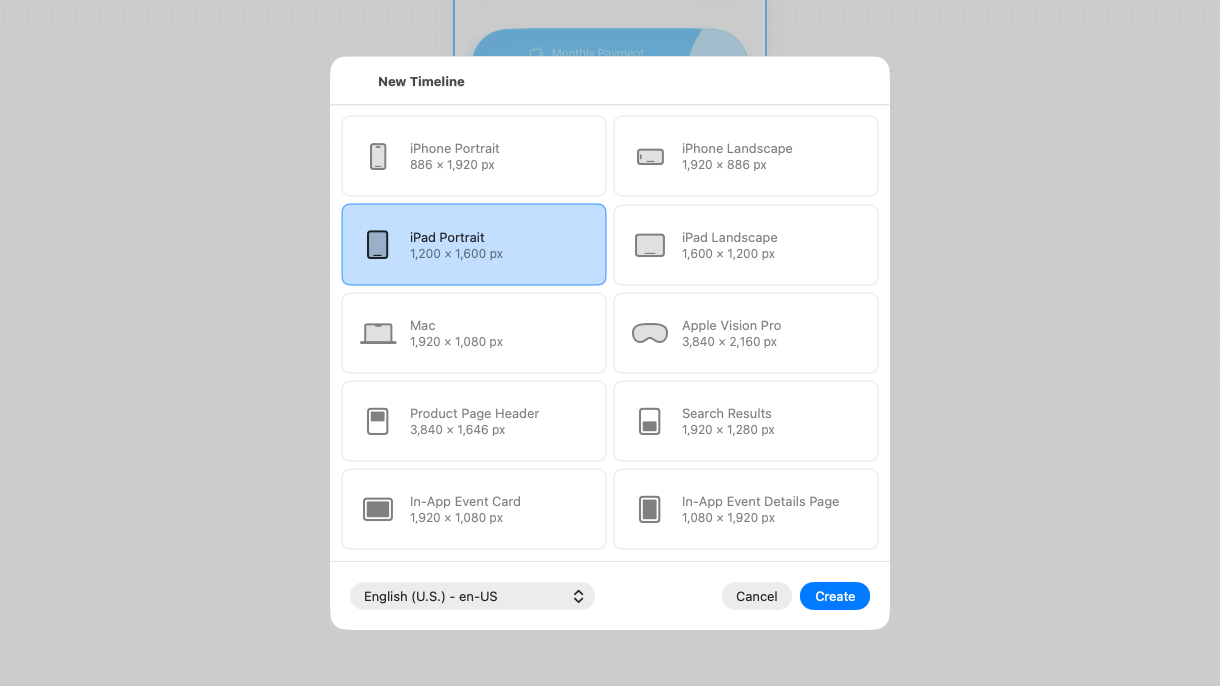
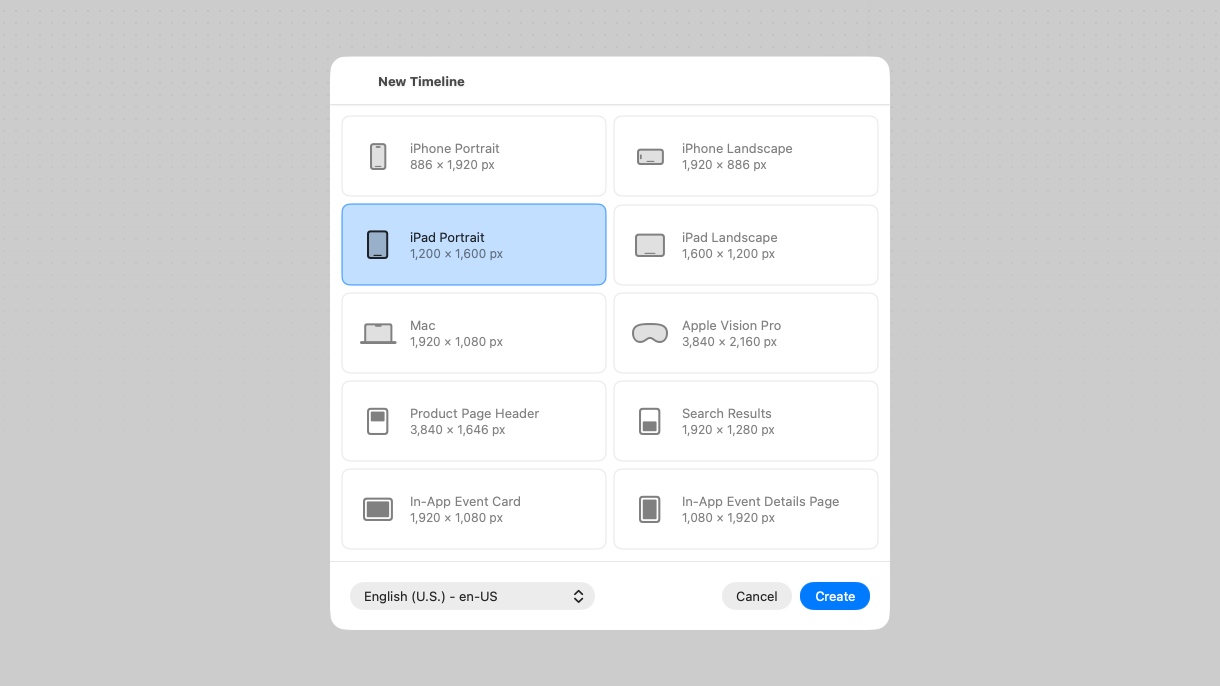
Updates

Changed region(s): [[0.3738, 0.0306, 0.623, 0.0918]]

diff --git a/app-preview-editor/index.html b/app-preview-editor/index.html
@@ -25,7 +25,7 @@
 
   <link rel="icon" href="AppIcon.png" type="image/png">
   <link rel="apple-touch-icon" href="AppIcon.png">
-  <link rel="stylesheet" href="styles.css?v=20261030-scene-desktop-1">
+  <link rel="stylesheet" href="styles.css?v=20261031-bento-images-1">
   <link rel="stylesheet" href="../tally-embed.css?v=20261029-1">
   <link rel="stylesheet" href="wind-files.css?v=20261029-varied-sizes-1">
   <link rel="stylesheet" href="../shared-download-cta.css?v=20261024-1">
@@ -196,6 +196,49 @@
             <source data-src="assets/product/scene-clip.mp4" type="video/mp4">
           </video>
         </div>
+      </div>
+    </section>
+
+    <section class="feature-bento" aria-labelledby="feature-bento-title">
+      <div class="feature-bento-heading reveal">
+        <h2 id="feature-bento-title">Make every detail yours.</h2>
+      </div>
+      <div class="feature-bento-grid">
+        <article class="feature-bento-card reveal">
+          <img class="feature-bento-icon" src="assets/icons/bento-01.svg" width="44" height="44" alt="" aria-hidden="true" loading="lazy" decoding="async">
+          <h3>Your screens. A bigger story.</h3>
+          <p>Bring recordings, screenshots, text, and sound together.</p>
+        </article>
+        <article class="feature-bento-card reveal">
+          <img class="feature-bento-icon" src="assets/icons/bento-02.svg" width="44" height="44" alt="" aria-hidden="true" loading="lazy" decoding="async">
+          <h3>Every moment. Just right.</h3>
+          <p>Fine-tune the timing, pace, and flow of your video.</p>
+        </article>
+        <article class="feature-bento-card feature-bento-wide reveal">
+          <img class="feature-bento-icon" src="assets/icons/bento-03.svg" width="44" height="44" alt="" aria-hidden="true" loading="lazy" decoding="async">
+          <h3>Make the important parts move.</h3>
+          <p>Draw attention with animated text, smooth entrances, and focused zooms.</p>
+        </article>
+        <article class="feature-bento-card feature-bento-wide reveal">
+          <img class="feature-bento-icon" src="assets/icons/bento-04.svg" width="44" height="44" alt="" aria-hidden="true" loading="lazy" decoding="async">
+          <h3>A little setup. A lot of scene.</h3>
+          <p>Add your screens to ready-made scenes and make them yours.</p>
+        </article>
+        <article class="feature-bento-card reveal">
+          <img class="feature-bento-icon" src="assets/icons/bento-05.svg" width="44" height="44" alt="" aria-hidden="true" loading="lazy" decoding="async">
+          <h3>One project. More possibilities.</h3>
+          <p>Create versions for different devices and languages, all together.</p>
+        </article>
+        <article class="feature-bento-card reveal">
+          <img class="feature-bento-icon" src="assets/icons/bento-06.svg" width="44" height="44" alt="" aria-hidden="true" loading="lazy" decoding="async">
+          <h3>See the bigger picture.</h3>
+          <p>Preview your video in an App Store-style layout before delivery.</p>
+        </article>
+        <article class="feature-bento-card feature-bento-library reveal">
+          <img class="feature-bento-icon" src="assets/icons/bento-07.svg" width="44" height="44" alt="" aria-hidden="true" loading="lazy" decoding="async">
+          <h3>Ready for what’s next.</h3>
+          <p>Upload videos to your App Store Connect Asset Library. Assign them when you’re ready.</p>
+        </article>
       </div>
     </section>
 
@@ -490,7 +533,7 @@
     <div><a href="../privacy.html">Privacy</a><a href="../terms.html">Terms</a><a href="mailto:hello@bricks.pe">Contact</a><span>© 2026 Bricks Apps</span></div>
   </footer>
 
-  <script src="script.js?v=20261029-editor-tilt-1" defer></script>
+  <script src="script.js?v=20261031-feature-bento-1" defer></script>
   <script src="wind-files.js?v=20261029-double-wind-1" defer></script>
   <script src="../tally-embed.js?v=20261029-1" defer></script>
 </body>

diff --git a/app-preview-editor/styles.css b/app-preview-editor/styles.css
@@ -650,6 +650,29 @@ html:not(.js) #workflow .mobile-workflow-media-wrap { display: block; }
 .apes-landing .scene-clips-window { position: absolute; left: 5%; top: 50%; width: 90%; transform: translateY(-50%); overflow: hidden; border-radius: var(--media-radius); }
 .apes-landing .scene-clips-media video { display: block; width: 100%; height: auto; object-fit: contain; }
 
+/* CalcPillars presentation, using APE's existing surface, accent and elevation. */
+.apes-landing .feature-bento { width: 100%; max-width: 1200px; margin-inline: auto; padding: 56px 20px; }
+.apes-landing .feature-bento-heading { max-width: 760px; margin: 0 auto 40px; text-align: left; }
+.apes-landing .feature-bento-heading h2 { margin: 0; font-size: 36px; font-weight: 900; letter-spacing: -.035em; line-height: 1.02; }
+.apes-landing .feature-bento-grid { display: grid; grid-template-columns: minmax(0, 1fr); grid-auto-rows: 1fr; gap: 16px; }
+.apes-landing .feature-bento-card { min-width: 0; padding: 28px; border: 1px solid var(--border); border-radius: 32px; background: var(--surface); box-shadow: var(--shadow); }
+/* A light tinted tile keeps the supplied black artwork legible in either theme. */
+.apes-landing .feature-bento-icon { display: block; width: 44px; height: 44px; padding: 10px; object-fit: contain; margin-bottom: 20px; border: 1px solid var(--border); border-radius: 14px; background: color-mix(in srgb, var(--detail) 10%, #fff); box-shadow: var(--shadow); }
+.apes-landing .feature-bento-card h3 { margin: 0 0 8px; color: var(--text); font-size: 20px; font-weight: 700; letter-spacing: -.01em; line-height: 1.5; }
+.apes-landing .feature-bento-card p { margin: 0; color: var(--text-secondary); font-size: 15px; line-height: 1.55; }
+@media (min-width: 769px) {
+  .apes-landing .feature-bento { padding: 120px 48px; }
+  .apes-landing .feature-bento-heading { margin-bottom: 64px; text-align: center; }
+  .apes-landing .feature-bento-heading h2 { font-size: 56px; }
+  .apes-landing .feature-bento-grid { grid-template-columns: repeat(2, minmax(0, 1fr)); gap: 24px; }
+  .apes-landing .feature-bento-library { grid-column: 1 / -1; }
+}
+@media (min-width: 901px) {
+  .apes-landing .feature-bento-grid { grid-template-columns: repeat(4, minmax(0, 1fr)); }
+  .apes-landing .feature-bento-card { padding: 30px; }
+  .apes-landing .feature-bento-wide { grid-column: span 2; }
+}
+
 /* The whole workflow card pins; compact or unavailable presentations stay in normal flow. */
 .apes-landing #workflow .workflow-layout { display: block; }
 .apes-landing #workflow .workflow-media { display: none; position: static; }

diff --git a/app-preview-editor/script.js b/app-preview-editor/script.js
@@ -76,7 +76,7 @@ document.querySelectorAll("video[poster]").forEach((video) => {
 
 const setupReveals = () => {
   if (motionPreference.matches || !("IntersectionObserver" in window)) return;
-  const selector = "h2, h3, p, .device-support, .feature-title-icon, .workflow-progress, .workflow-frames, .mobile-workflow-media-wrap, .story-media, .scene-clips-media, .templates-link, .template-preview, .capability-media, .pricing-block > .coming-soon-label, .pricing-options > div, .plan-comparison, .faq-list > details, .bricks-download-cta > img, .bricks-cta-actions, .cta-preview-mask, .founder-panel > img, .founder-link";
+  const selector = "h2, h3, p, .device-support, .feature-title-icon, .workflow-progress, .workflow-frames, .mobile-workflow-media-wrap, .story-media, .scene-clips-media, .feature-bento-card, .templates-link, .template-preview, .capability-media, .pricing-block > .coming-soon-label, .pricing-options > div, .plan-comparison, .faq-list > details, .bricks-download-cta > img, .bricks-cta-actions, .cta-preview-mask, .founder-panel > img, .founder-link";
   const targets = new Map();
   try {
     document.querySelectorAll(".reveal").forEach(root => {
